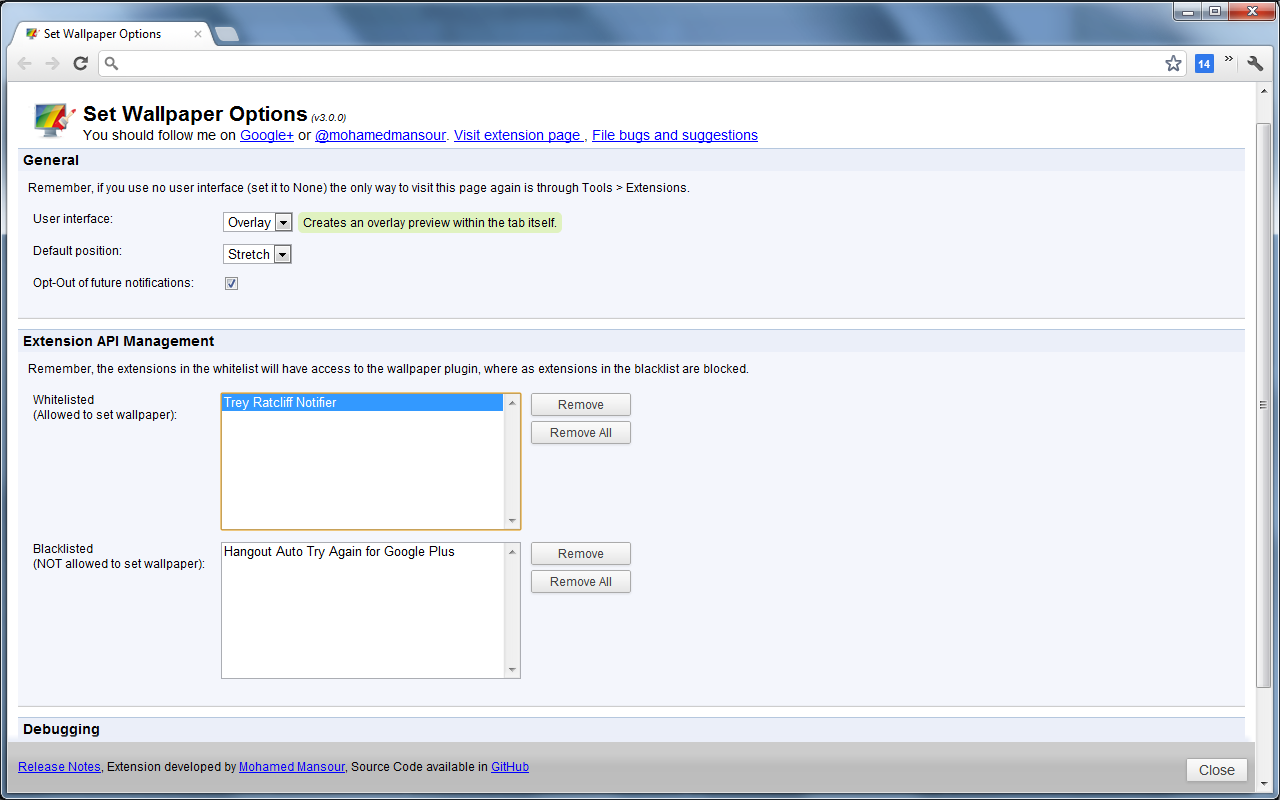
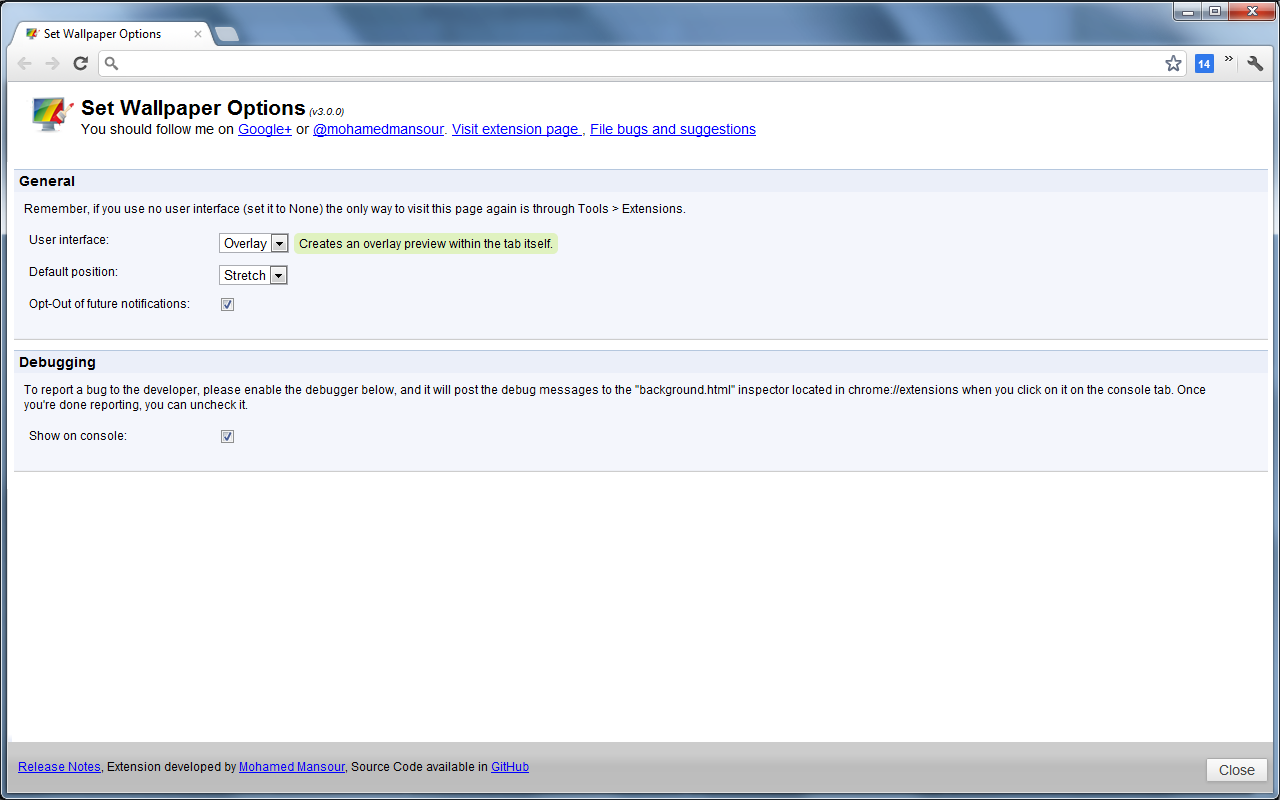
Disable approval service for this release until the next major one.

diff --git a/js/options.js b/js/options.js
@@ -13,7 +13,7 @@ function onLoad() {
   onRestore();
   $('button-close').addEventListener('click', onClose, false);
   $('release-notes').addEventListener('click', onReleaseNotes, false);
-  approvalOptions.init();
+  // DISABLE FOR NOW approvalOptions.init();
 }
 
 /**
@@ -38,7 +38,7 @@ function onRestore() {
   $('version').innerHTML = ' (v' + bkg.settings.version + ')';
   
   // Load Approval Options UI.
-  approvalOptions.bindUI();
+  // DISABLE FOR NOW approvalOptions.bindUI();
   
   // Debug
   var debugElement = $('debug');

diff --git a/preview.html b/preview.html
@@ -34,8 +34,8 @@ controller.bind();
     </div>
     <div id="crx_wlp_tweet" >
       Developed by 
-      +<a href="https://plus.google.com/116805285176805120365/about">Mohamed Mansour</a>,
-      Source code on <a href="http://goo.gl/pHAM">GitHub</a>
+      +<a href="https://plus.google.com/116805285176805120365/about" onclick="window.open(this.href); return false;">Mohamed Mansour</a>,
+      Source code on <a href="http://goo.gl/pHAM" onclick="window.open(this.href); return false;">GitHub</a>
     </div>
   </div>
 </div>

diff --git a/options.html b/options.html
@@ -51,6 +51,7 @@
           </dl>
         </div>
       </div>
+      <!--
       <div class="extension-template">
         <div class="extension-header">Extension API Management</div>
         <div class="extension-options">
@@ -74,6 +75,7 @@
           </dl>
         </div>
       </div>
+      -->
       <div class="extension-template">
         <div class="extension-header">Debugging</div>
         <div class="extension-options">

diff --git a/js/wallpaper_controller.js b/js/wallpaper_controller.js
@@ -27,7 +27,7 @@ WallpaperController.prototype.init = function() {
   this.contextMenuController.init();
   this.pluginService.init();
   this.localService.init();
-  this.externalService.init();
+  // DISABLE FOR NOW this.externalService.init();
 };
 
 /**
